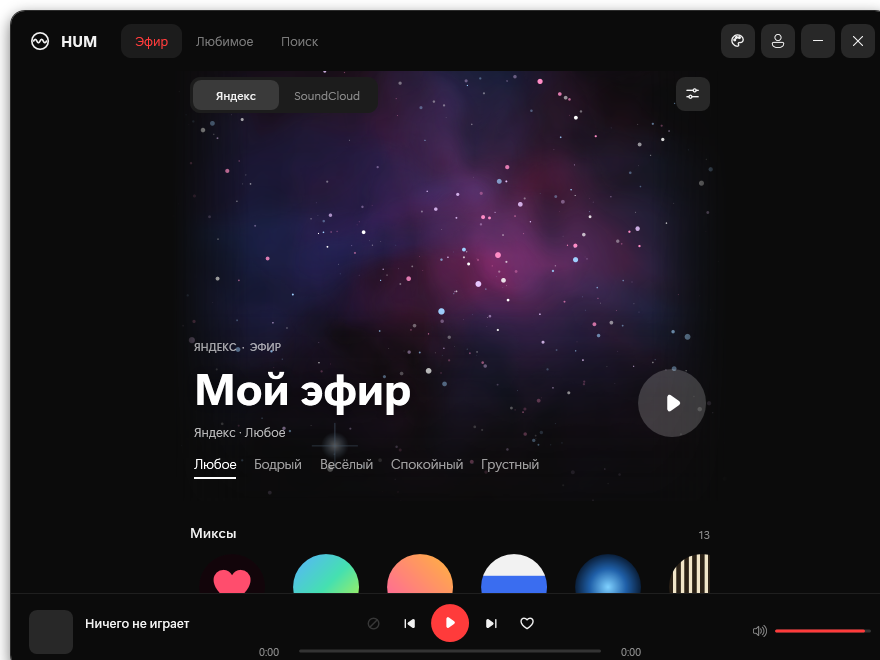
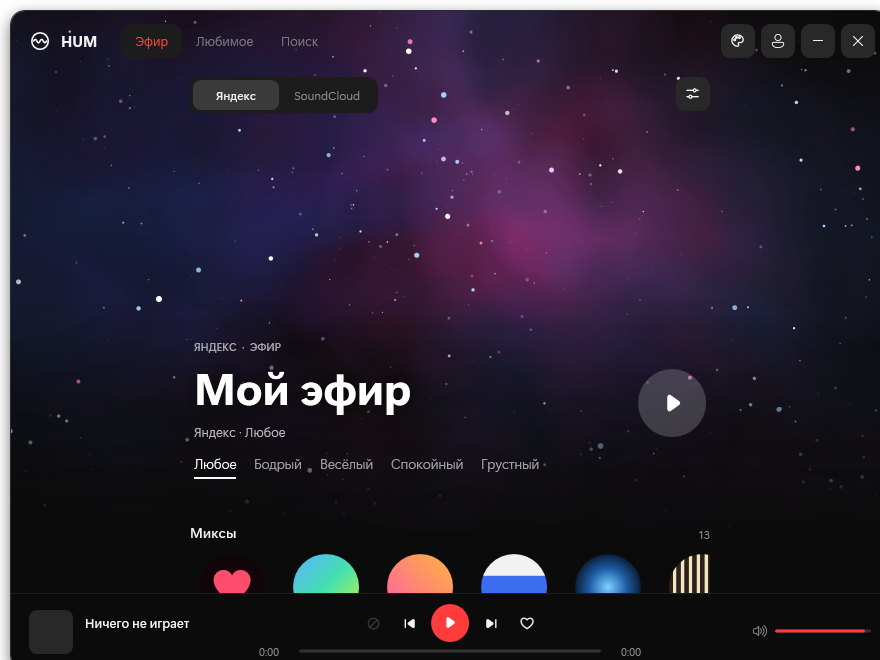
The nebula fills the whole window
In the big window the nebula was confined to the page's narrow column
and read as a box. The window now draws it behind the header and the
page across its full width (the page only drives it), it drifts up
slower than the page and fades as you scroll, and fades out on the
other tabs. The tray flyout keeps its own.

diff --git a/src/Hum.App/MainWindow.xaml b/src/Hum.App/MainWindow.xaml
@@ -11,12 +11,19 @@
 
     <Border x:Name="Card" CornerRadius="14" Background="{DynamicResource Bg}" BorderBrush="#2C2C2C" BorderThickness="1" Margin="10">
         <Border.Effect><DropShadowEffect BlurRadius="22" ShadowDepth="5" Direction="270" Opacity="0.55"/></Border.Effect>
-        <Grid>
+        <Grid x:Name="Body">
             <Grid.RowDefinitions>
                 <RowDefinition Height="60"/>
                 <RowDefinition/>
                 <RowDefinition Height="Auto"/>
             </Grid.RowDefinitions>
+
+            <!-- «Мой эфир» nebula: behind the header and the page, the whole width of the window -->
+            <Grid x:Name="NebulaHost" Grid.RowSpan="2" VerticalAlignment="Top" Height="520" IsHitTestVisible="False" ClipToBounds="True">
+                <ui:HeroNebula x:Name="Nebula" SoftSides="False">
+                    <ui:HeroNebula.RenderTransform><TranslateTransform x:Name="NebulaShift"/></ui:HeroNebula.RenderTransform>
+                </ui:HeroNebula>
+            </Grid>
 
             <!-- header: drag area, logo, tabs, accounts, window buttons -->
             <Grid x:Name="Header" Background="Transparent" Margin="18,0,14,0">

diff --git a/src/Hum.App/UI/WavePage.xaml.cs b/src/Hum.App/UI/WavePage.xaml.cs
@@ -56,7 +56,7 @@ public partial class WavePage : UserControl
         {
             var p = H.Player;
             if (p.IsWave && p.ContextSource == CurrentSource && p.Current is not null) p.Toggle();
-            else { Rings.Burst(); _ = p.PlayMyWaveAsync(CurrentSource); }
+            else { Neb.Burst(); _ = p.PlayMyWaveAsync(CurrentSource); }
         };
         TuneBtn.Click += (_, _) => ToggleTune();
         ConnectButton.Click += (_, _) => H.Connect(CurrentSource);
@@ -76,12 +76,7 @@ public partial class WavePage : UserControl
         H.SourceChanged += () => { _builtFor = -1; Refresh(); };
         Loaded += (_, _) => { _builtFor = -1; Refresh(); };
         // the name breathes while the wave of this source plays
-        Rings.Frame += () =>
-        {
-            var s = 1 + Rings.Energy * 0.03;
-            NameScale.ScaleX = NameScale.ScaleY = s;
-            DriftAurora();
-        };
+        Rings.Frame += OnNebulaFrame;
         Look.Changed += Paint;
         Hero.SizeChanged += (_, _) => DriftAurora();
         Aurora.Visibility = Visibility.Collapsed;
@@ -89,6 +84,26 @@ public partial class WavePage : UserControl
     }
 
     public object? Top { get => TopSlot.Content; set => TopSlot.Content = value; }
+
+    // the nebula is drawn here (flyout) or by the window behind everything (big window, full width)
+    private HeroNebula? _ext;
+    private HeroNebula Neb => _ext ?? Rings;
+
+    /// <summary>The big window draws the nebula across its whole width; this page then only drives it.</summary>
+    public void UseNebula(HeroNebula n)
+    {
+        Rings.Frame -= OnNebulaFrame;
+        Rings.Visibility = Visibility.Collapsed;
+        _ext = n;
+        n.Frame += OnNebulaFrame;
+        Paint();
+    }
+
+    private void OnNebulaFrame()
+    {
+        var s = 1 + Neb.Energy * 0.03;
+        NameScale.ScaleX = NameScale.ScaleY = s;
+    }
 
     // ------------------------------------------------------------------ colour
 
@@ -134,14 +149,14 @@ public partial class WavePage : UserControl
     private void Paint()
     {
         _pal = CurrentPalette();
-        Rings.Colors = _pal;
+        Neb.Colors = _pal;
         Brush Cloud(Color c) { var b = new RadialGradientBrush(Color.FromArgb(0xA0, c.R, c.G, c.B), Color.FromArgb(0, c.R, c.G, c.B)); b.Freeze(); return b; }
         Blob1.Fill = Cloud(_pal[0]);
         Blob2.Fill = Cloud(_pal[_pal.Length / 2]);
         Blob3.Fill = Cloud(_pal[^1]);
         HeroPlay.Resources["Accent"] = new SolidColorBrush(Color.FromArgb(0x30, 255, 255, 255));
         HeroPlay.Resources["OnAccent"] = Brushes.White;
-        Rings.Scheme = NebulaScheme();
+        Neb.Scheme = NebulaScheme();
         HeroKick.Text = (CurrentSource == Source.Yandex ? "ЯНДЕКС" : "SOUNDCLOUD") + "  ·  ЭФИР";
     }
 
@@ -235,7 +250,7 @@ public partial class WavePage : UserControl
         if (src == Source.Yandex)
         {
             bool Resting() => !(p.IsWave && p.ContextSource == Source.Yandex && p.Current is not null);
-            AddMoodTab("Любое", "mywave", () => { Rings.Burst(); _ = p.PlayMyWaveAsync(Source.Yandex); }, () => p.Context == PlayContext.MyWave && p.ContextSource == Source.Yandex || Resting() && _mood == "mywave");
+            AddMoodTab("Любое", "mywave", () => { Neb.Burst(); _ = p.PlayMyWaveAsync(Source.Yandex); }, () => p.Context == PlayContext.MyWave && p.ContextSource == Source.Yandex || Resting() && _mood == "mywave");
             foreach (var m in PlayerService.Mixes.Where(m => m.Group == "Настроение" && m.Id != "custom"))
                 AddMoodTab(m.Title, m.Id, () => { H.Settings.Mix = m.Id; H.Settings.Save(); _ = p.PlayMixAsync(m.Id); }, () => p.Context == PlayContext.Mix && p.MixId == m.Id || Resting() && _mood == m.Id);
             foreach (var m in PlayerService.Mixes.Where(m => m.Group != "Настроение"))
@@ -346,7 +361,7 @@ public partial class WavePage : UserControl
             : isYa ? $"Яндекс · {DivLabel.GetValueOrDefault(st.Diversity, "Любое")}"
             : $"SoundCloud · {(st.ScGenre is { } g ? PlayerService.ScGenres.FirstOrDefault(x => x.Query == g)?.Title : PlayerService.ScBases.FirstOrDefault(x => x.Id == st.ScBase)?.Title)}";
         Icons.Set_(HeroPlay, mine && p.IsPlaying ? "pause" : "play", 26);
-        Rings.Active = mine && p.IsPlaying;
+        Neb.Active = mine && p.IsPlaying;
         Paint();
 
         // chips and discs follow what plays

diff --git a/src/Hum.App/MainWindow.xaml.cs b/src/Hum.App/MainWindow.xaml.cs
@@ -31,6 +31,11 @@ public partial class MainWindow : Window
         TabLikes.Click += (_, _) => ShowTab(1);
         TabSearch.Click += (_, _) => ShowTab(2);
         Wave.AllLikesRequested += () => ShowTab(1);
+        Wave.UseNebula(Nebula);
+        // the nebula drifts up slower than the page and fades as you scroll
+        WaveHost.ScrollChanged += (_, _) => PlaceNebula();
+        // keep the rounded corners of the window clean
+        Body.SizeChanged += (_, _) => Body.Clip = new RectangleGeometry(new Rect(Body.RenderSize), 13, 13);
         Header.MouseLeftButtonDown += (_, e) =>
         {
             if (e.ClickCount == 2) WindowState = WindowState == WindowState.Maximized ? WindowState.Normal : WindowState.Maximized;
@@ -73,12 +78,24 @@ public partial class MainWindow : Window
         if (!CoverPage.IsVisible) CoverPage.Open();
     }
 
+    private void PlaceNebula()
+    {
+        var y = WaveHost.VerticalOffset;
+        NebulaShift.Y = -y * 0.5;
+        NebulaHost.Opacity = _tab == 0 ? Math.Clamp(1 - y / 420, 0, 1) : 0;
+    }
+
     private void ShowTab(int tab, bool animate = true)
     {
         if (CoverPage.IsVisible) CoverPage.Close();
         if (ArtistPage.IsVisible) ArtistPage.Close();
         _tab = tab;
         Tabs.Paint(_tabs, _tabs[tab]);
+        // the nebula belongs to «Эфир»: it fades out on the other tabs
+        var from = NebulaHost.Opacity;
+        var to = tab == 0 ? Math.Clamp(1 - WaveHost.VerticalOffset / 420, 0, 1) : 0;
+        if (tab == 0) Nebula.Visibility = Visibility.Visible;
+        Animator.Tween(0.35, t => NebulaHost.Opacity = Ease.Lerp(from, to, Ease.OutCubic(t)), () => { if (_tab != 0) Nebula.Visibility = Visibility.Collapsed; });
         Tabs.Place(TabHost, TabBlob, _tabs[tab], animate);
         var pages = new FrameworkElement[] { WaveHost, Likes, Search };
         for (var i = 0; i < pages.Length; i++)

diff --git a/src/Hum.App/UI/HeroNebula.cs b/src/Hum.App/UI/HeroNebula.cs
@@ -46,6 +46,8 @@ public sealed class HeroNebula : FrameworkElement
     private readonly Color[] _starCol = new Color[4];
 
     public bool Active { get; set; }
+    /// <summary>Fade the sides into the page (when it sits in a narrow column).</summary>
+    public bool SoftSides { get; set; } = true;
     public double Energy { get; private set; }
     public Color[] Colors { get; set; } = Array.Empty<Color>();
     public event Action? Frame;
@@ -201,7 +203,7 @@ public sealed class HeroNebula : FrameworkElement
         var shade = new LinearGradientBrush(Color.FromArgb(0, bg.R, bg.G, bg.B), Color.FromArgb(0xE0, bg.R, bg.G, bg.B), 90) { StartPoint = new Point(0, 0.55), EndPoint = new Point(0, 1) };
         dc.DrawRectangle(shade, null, new Rect(0, 0, w, h));
         // and melt into the page at the sides
-        var side = Math.Min(90, w * 0.14);
+        var side = SoftSides ? Math.Min(90, w * 0.14) : 0;
         var l = new LinearGradientBrush(Color.FromArgb(0xFF, bg.R, bg.G, bg.B), Color.FromArgb(0, bg.R, bg.G, bg.B), 0);
         var rgt = new LinearGradientBrush(Color.FromArgb(0, bg.R, bg.G, bg.B), Color.FromArgb(0xFF, bg.R, bg.G, bg.B), 0);
         dc.DrawRectangle(l, null, new Rect(0, 0, side, h));
